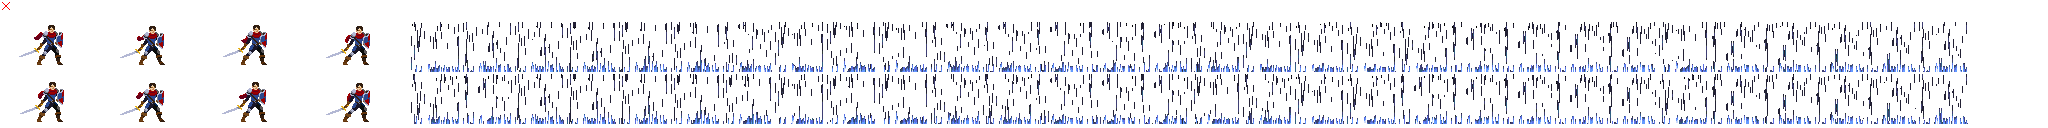
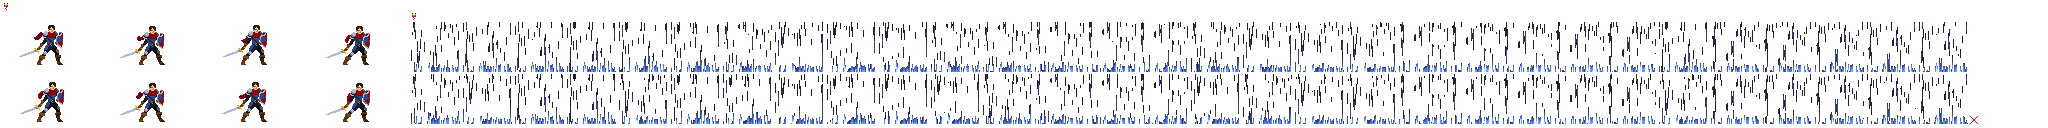
Attachment System brings fire!

diff --git a/core/src/main/kotlin/io/varakh/eb/ecs/system/AttachSystem.kt b/core/src/main/kotlin/io/varakh/eb/ecs/system/AttachSystem.kt
@@ -1,0 +1,53 @@
+package io.varakh.eb.ecs.system
+
+import com.badlogic.ashley.core.Engine
+import com.badlogic.ashley.core.Entity
+import com.badlogic.ashley.core.EntityListener
+import com.badlogic.ashley.systems.IteratingSystem
+import io.varakh.eb.ecs.component.AttachComponent
+import io.varakh.eb.ecs.component.GraphicComponent
+import io.varakh.eb.ecs.component.RemoveComponent
+import io.varakh.eb.ecs.component.TransformComponent
+import ktx.ashley.addComponent
+import ktx.ashley.allOf
+import ktx.ashley.get
+
+class AttachSystem : EntityListener,
+        IteratingSystem(allOf(AttachComponent::class, TransformComponent::class, GraphicComponent::class).get()) {
+
+    override fun addedToEngine(engine: Engine) {
+        super.addedToEngine(engine)
+        engine.addEntityListener(this)
+    }
+
+    override fun removedFromEngine(engine: Engine) {
+        super.removedFromEngine(engine)
+        engine.removeEntityListener(this)
+    }
+
+    override fun entityAdded(entity: Entity) = Unit
+
+    override fun entityRemoved(removedEntity: Entity) {
+        entities.forEach {
+            if (it[AttachComponent.mapper]?.attachEntity == removedEntity)
+                it.addComponent<RemoveComponent>(engine)
+        }
+    }
+
+    override fun processEntity(entity: Entity, deltaTime: Float) {
+        val attach = entity[AttachComponent.mapper]!!
+        val graphic = entity[GraphicComponent.mapper]!!
+        val transform = entity[TransformComponent.mapper]!!
+
+        attach.attachEntity[TransformComponent.mapper]?.let {
+            transform.interpolatedPosition.set(
+                    it.interpolatedPosition.x + attach.offset.x,
+                    it.interpolatedPosition.y + attach.offset.y,
+                    transform.position.z)
+        }
+
+        attach.attachEntity[GraphicComponent.mapper]?.let {
+            graphic.sprite.setAlpha(it.sprite.color.a)
+        }
+    }
+}

diff --git a/core/src/main/kotlin/io/varakh/eb/screen/GameScreen.kt b/core/src/main/kotlin/io/varakh/eb/screen/GameScreen.kt
@@ -1,6 +1,7 @@
 package io.varakh.eb.screen
 
 import io.varakh.eb.Eschenberg
+import io.varakh.eb.UNIT_SCALE
 import io.varakh.eb.WORLD_WIDTH
 import io.varakh.eb.ecs.component.*
 import io.varakh.eb.ecs.system.DamageSystem
@@ -14,19 +15,31 @@ private val log = logger<GameScreen>()
 private const val MAX_FRAME_RATE = 1 / 100f
 
 class GameScreen(game: Eschenberg) : EschenbergScreen(game) {
-    private val player = engine.entity {
-        with<TransformComponent> {
-            setInitialPosition(8f, 4.5f, 0f)
-        }
-        with<AnimationComponent> { type = AnimationType.PLAYER_IDLE }
-        with<GraphicComponent>()
-        with<MoveComponent>()
-        with<PlayerComponent>()
-        with<FacingComponent>()
-    }
 
     override fun show() {
         log.debug { "Game screen is shown." }
+        val player = engine.entity {
+            with<TransformComponent> {
+                setInitialPosition(8f, 4.5f, 2f)
+            }
+            with<AnimationComponent> { type = AnimationType.PLAYER_IDLE }
+            with<GraphicComponent>()
+            with<MoveComponent>()
+            with<PlayerComponent>()
+            with<FacingComponent>()
+        }
+        engine.entity {
+            with<AttachComponent> {
+                attachEntity = player
+                offset.set(4f * UNIT_SCALE, -5f * UNIT_SCALE)
+            }
+            with<TransformComponent> {
+                size.set(0.5f, 0.5f)
+                setInitialPosition(0f, 0f, 1f) // x/y don't matter, be behind player but before background
+            }
+            with<AnimationComponent> { type = AnimationType.FIRE }
+            with<GraphicComponent>()
+        }
         engine.entity {
             with<TransformComponent> { size.set(WORLD_WIDTH, DamageSystem.DAMAGE_AREA_HEIGHT) }
             with<AnimationComponent> { type = AnimationType.DARK_MATTER }

diff --git a/core/src/main/kotlin/io/varakh/eb/ecs/system/DamageSystem.kt b/core/src/main/kotlin/io/varakh/eb/ecs/system/DamageSystem.kt
@@ -3,7 +3,7 @@ package io.varakh.eb.ecs.system
 import com.badlogic.ashley.core.Entity
 import com.badlogic.ashley.systems.IteratingSystem
 import io.varakh.eb.ecs.component.PlayerComponent
-import io.varakh.eb.ecs.component.RemovedComponent
+import io.varakh.eb.ecs.component.RemoveComponent
 import io.varakh.eb.ecs.component.TransformComponent
 import ktx.ashley.addComponent
 import ktx.ashley.allOf
@@ -15,7 +15,7 @@ import java.lang.Float.max
 private val log = logger<DamageSystem>()
 
 class DamageSystem : IteratingSystem(
-        allOf(PlayerComponent::class, TransformComponent::class).exclude(RemovedComponent::class).get()) {
+        allOf(PlayerComponent::class, TransformComponent::class).exclude(RemoveComponent::class).get()) {
 
     private var accumulator = 0f
 
@@ -33,7 +33,7 @@ class DamageSystem : IteratingSystem(
             if (damage <= 0) return
         }
         player.health = max(0f, player.health - damage)
-        if (player.health <= 0f) entity.addComponent<RemovedComponent>(engine) {
+        if (player.health <= 0f) entity.addComponent<RemoveComponent>(engine) {
             delay = DEATH_EXPLOSION_DURATION
         }
     }

diff --git a/core/src/main/kotlin/io/varakh/eb/ecs/system/RemoveSystem.kt b/core/src/main/kotlin/io/varakh/eb/ecs/system/RemoveSystem.kt
@@ -2,14 +2,14 @@ package io.varakh.eb.ecs.system
 
 import com.badlogic.ashley.core.Entity
 import com.badlogic.ashley.systems.IteratingSystem
-import io.varakh.eb.ecs.component.RemovedComponent
+import io.varakh.eb.ecs.component.RemoveComponent
 import ktx.ashley.allOf
 import ktx.ashley.get
 
-class RemoveSystem : IteratingSystem(allOf(RemovedComponent::class).get()) {
+class RemoveSystem : IteratingSystem(allOf(RemoveComponent::class).get()) {
 
     override fun processEntity(entity: Entity, deltaTime: Float) {
-        val removed = entity[RemovedComponent.mapper]!!
+        val removed = entity[RemoveComponent.mapper]!!
 
         removed.delay -= deltaTime
         if (removed.delay <= 0f) engine.removeEntity(entity)

diff --git a/core/src/main/kotlin/io/varakh/eb/ecs/component/AttachComponent.kt b/core/src/main/kotlin/io/varakh/eb/ecs/component/AttachComponent.kt
@@ -1,0 +1,21 @@
+package io.varakh.eb.ecs.component
+
+import com.badlogic.ashley.core.Component
+import com.badlogic.ashley.core.Entity
+import com.badlogic.gdx.math.Vector2
+import com.badlogic.gdx.utils.Pool
+import ktx.ashley.mapperFor
+
+class AttachComponent : Component, Pool.Poolable {
+
+    lateinit var attachEntity: Entity
+    val offset = Vector2()
+
+    override fun reset() {
+        offset.set(0f, 0f)
+    }
+
+    companion object {
+        val mapper = mapperFor<AttachComponent>()
+    }
+}

diff --git a/core/src/main/kotlin/io/varakh/eb/ecs/component/RemoveComponent.kt b/core/src/main/kotlin/io/varakh/eb/ecs/component/RemoveComponent.kt
@@ -4,7 +4,7 @@ import com.badlogic.ashley.core.Component
 import com.badlogic.gdx.utils.Pool
 import ktx.ashley.mapperFor
 
-class RemovedComponent : Component, Pool.Poolable {
+class RemoveComponent : Component, Pool.Poolable {
     var delay = 0f
 
     override fun reset() {
@@ -12,6 +12,6 @@ class RemovedComponent : Component, Pool.Poolable {
     }
 
     companion object {
-        val mapper = mapperFor<RemovedComponent>()
+        val mapper = mapperFor<RemoveComponent>()
     }
 }

diff --git a/core/src/main/kotlin/io/varakh/eb/Eschenberg.kt b/core/src/main/kotlin/io/varakh/eb/Eschenberg.kt
@@ -38,6 +38,7 @@ class Eschenberg : KtxGame<EschenbergScreen>() {
                     regionDown = graphicsAtlas.findRegion("HeroKnight_Idle", 5),
                     regionLeft = graphicsAtlas.findRegion("HeroKnight_Idle", 7)
             ))
+            addSystem(AttachSystem())
             addSystem(AnimationSystem(graphicsAtlas))
             addSystem(RenderSystem(batch, viewport))
             addSystem(RemoveSystem())

diff --git a/core/src/main/kotlin/io/varakh/eb/ecs/component/TransformComponent.kt b/core/src/main/kotlin/io/varakh/eb/ecs/component/TransformComponent.kt
@@ -27,7 +27,7 @@ class TransformComponent : Component, Pool.Poolable, Comparable<TransformCompone
     }
 
     override fun compareTo(other: TransformComponent): Int {
-        val zDiff = other.position.z.compareTo(position.z)
+        val zDiff = position.z.compareTo(other.position.z)
         return if (zDiff == 0) other.position.y.compareTo(position.y) else zDiff
     }
 

diff --git a/core/src/main/kotlin/io/varakh/eb/ecs/system/MoveSystem.kt b/core/src/main/kotlin/io/varakh/eb/ecs/system/MoveSystem.kt
@@ -14,7 +14,7 @@ import java.lang.Float.max
 import java.lang.Float.min
 
 class MoveSystem : IteratingSystem(
-        allOf(TransformComponent::class, MoveComponent::class).exclude(RemovedComponent::class).get()) {
+        allOf(TransformComponent::class, MoveComponent::class).exclude(RemoveComponent::class).get()) {
 
     private var accumulator = 0f
 

diff --git a/core/src/main/kotlin/io/varakh/eb/ecs/component/Animation.kt b/core/src/main/kotlin/io/varakh/eb/ecs/component/Animation.kt
@@ -15,6 +15,7 @@ enum class AnimationType(val atlasKey: String,
                          val speedRate: Float = 1f) {
     NONE(""),
     DARK_MATTER("dark_matter", speedRate = 2f),
+    FIRE("fire"),
     PLAYER_IDLE("HeroKnight_Idle")
 }
 
